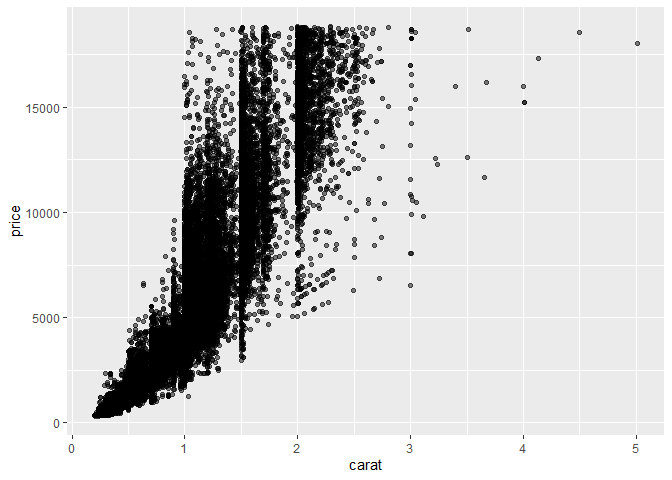
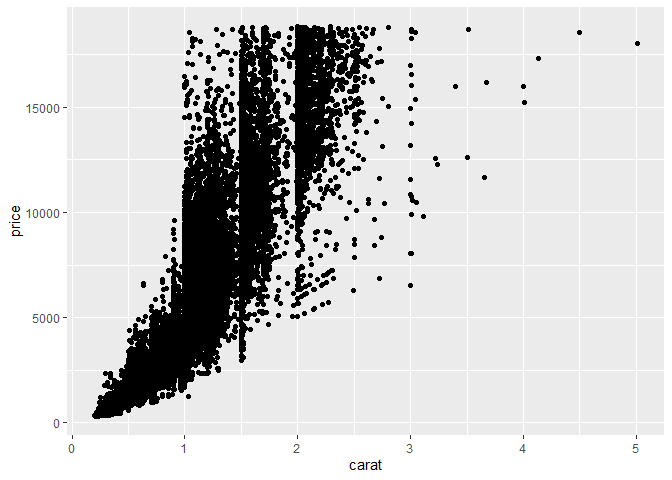
Revised C00

diff --git a/challenges/c00-diamonds-assignment.md b/challenges/c00-diamonds-assignment.md
@@ -1,6 +1,6 @@
 Getting Started: Diamonds
 ================
-(Your name here)
+Elisa Camacho
 2020-
 
 - [Grading Rubric](#grading-rubric)
@@ -98,52 +98,52 @@ document your observations.
 ``` r
 ## TASK: Plot `price` vs `carat` below
 ## Your code here!
-library(tidyverse)
-ggplot(diamonds, aes(x = carat, y = price)) +
-  geom_point(alpha = 0.5) 
+ diamonds %>% 
+  ggplot() +          
+  geom_point(     
+    mapping = aes( 
+      x = carat,  
+      y = price    
+      )
+    )
 ```
 
 ![](c00-diamonds-assignment_files/figure-gfm/q1-task-1.png)<!-- -->
 
-``` r
-  labs(title = "Price vs Carat of Diamonds",
-       x = "Carat",
-       y = "Price") +
-  theme_minimal()
-```
-
-    ## NULL
-
 **Observations**:
 
-- (Write your observations here!) I noticed a steady upwards growth in
-  the graph. their are noticeable clusters of diamond cuts around the
-  carat mark at 1, 1.5, 2 one single 5 carat cut diamond at the edge of
-  the graph.
+- The plot shows a positive correlation between carat weight and price
+
+- Notable clusters appear around common carat weights (1, 1.5, and 2
+  carats)
+
+- A single outlier exists at approximately 5 carats
 
 ### **q2** Create a visualization showing variables `carat`, `price`, and `cut` simultaneously. Experiment with which variable you assign to which aesthetic (`x`, `y`, etc.) to find an effective visual.
 
 ``` r
 ## TASK: Plot `price`, `carat`, and `cut` below
 ## Your code here!
-ggplot(diamonds, aes(x = carat, y = price, color = cut)) +
-  geom_point(alpha = 0.5) +
-  labs(title = "Price vs Carat, Colored by Cut",
-       x = "Carat",
-       y = "Price",
-       color = "Cut") +
-  theme_minimal()
+diamonds %>%  
+  ggplot(aes(x = carat, y = price, color = cut)) +  
+  geom_point(alpha = 0.5) +  
+  labs(  
+    title = "Price vs Carat by Diamond Cut Quality",  
+    x = "Carat (weight)",  
+    y = "Price (USD)",  
+    color = "Cut Quality"  
+  ) +  
+  theme_minimal()  
 ```
 
 ![](c00-diamonds-assignment_files/figure-gfm/q2-task-1.png)<!-- -->
 
-**Observations**:
-
-- (Write your observations here!) Higher- quality cuts that are labeled
-  as ideal have the same prices as the fair quality cuts. Their is a
-  noticeable variation in price trends among different cut types. The
-  highest prices are seen in certain premium and very high-carat
-  diamonds.
+**Observations**: It seems like cut quality diamond of any kind can have
+high prices. High prices are not reserved for premium cut diamonds as I
+assumed before this assignment. Higher-quality cuts (Ideal) sometimes
+have similar prices to lower-quality cuts (Fair). Ideal Diamonds seem to
+not go past 3.5 carat weight I notices many outliers of fair cut
+diamonds that have high carat weight.
 
 # Communication
 
